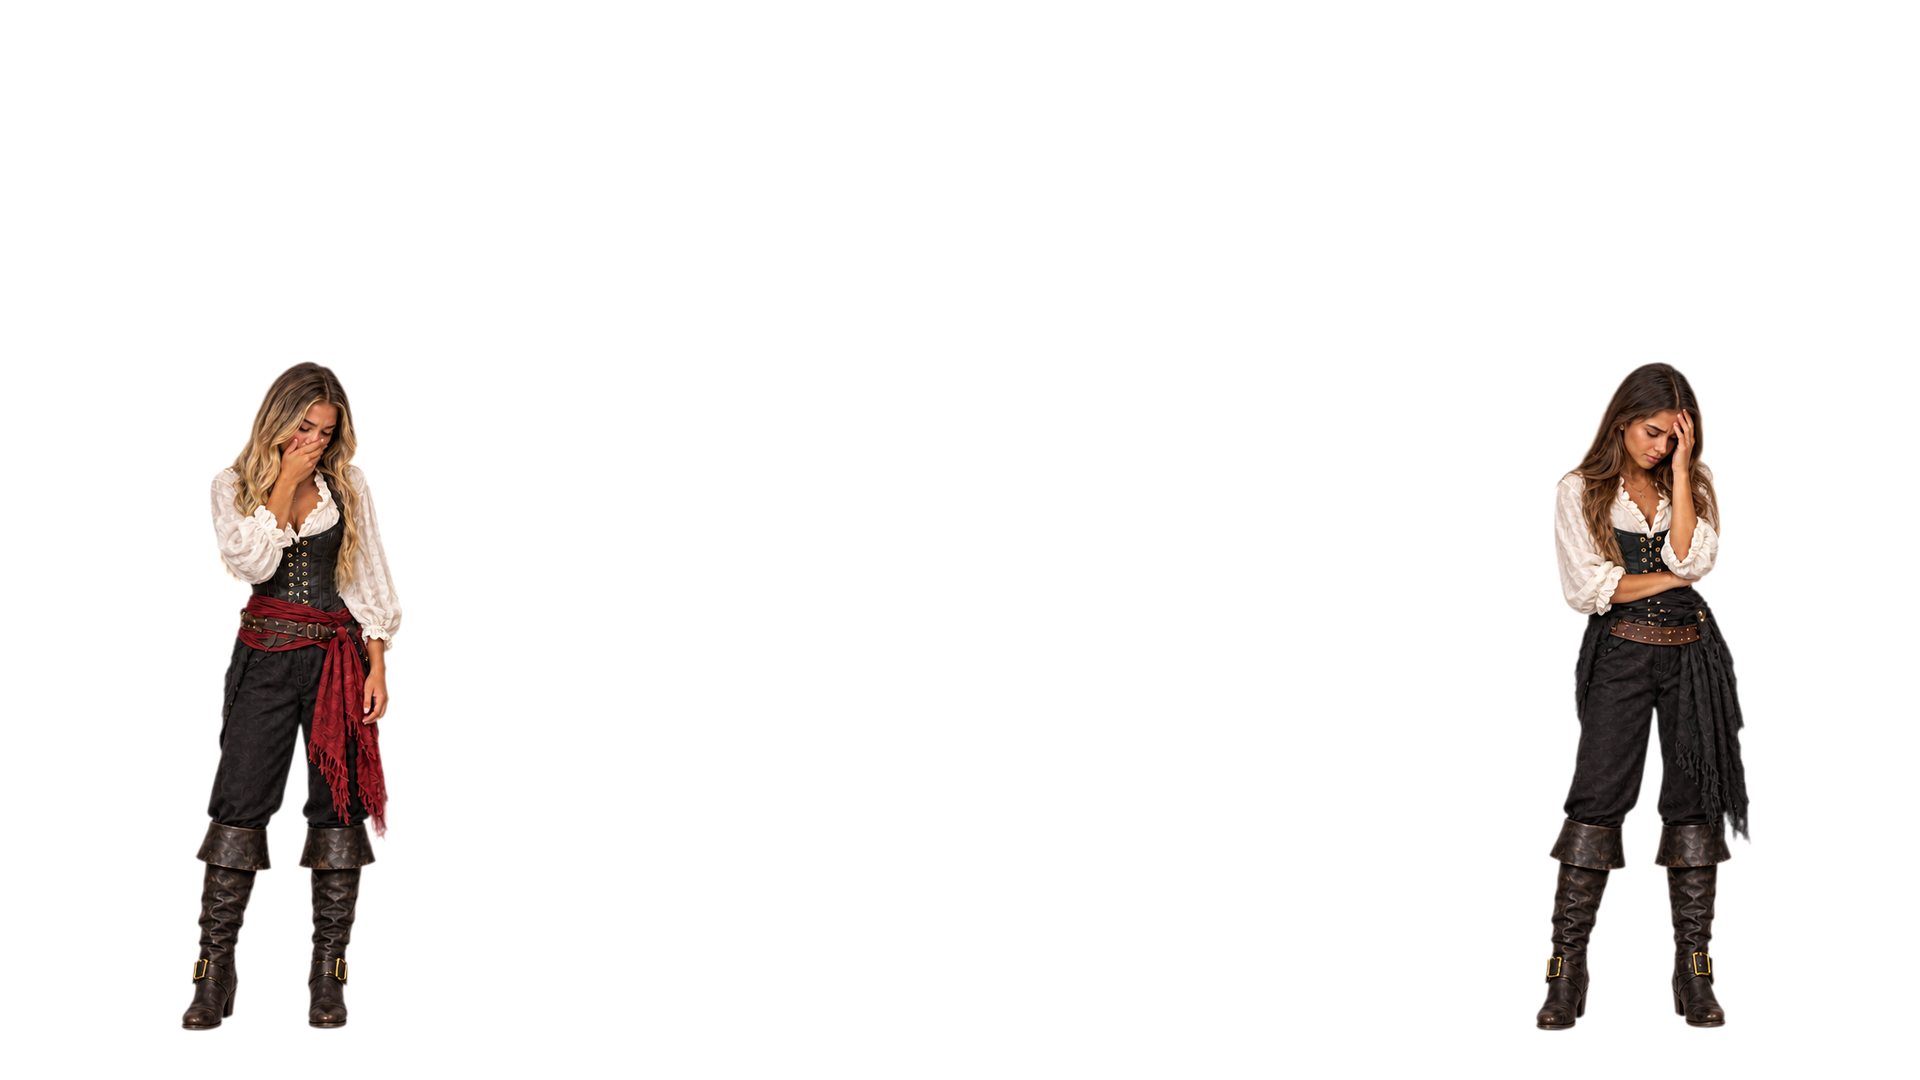
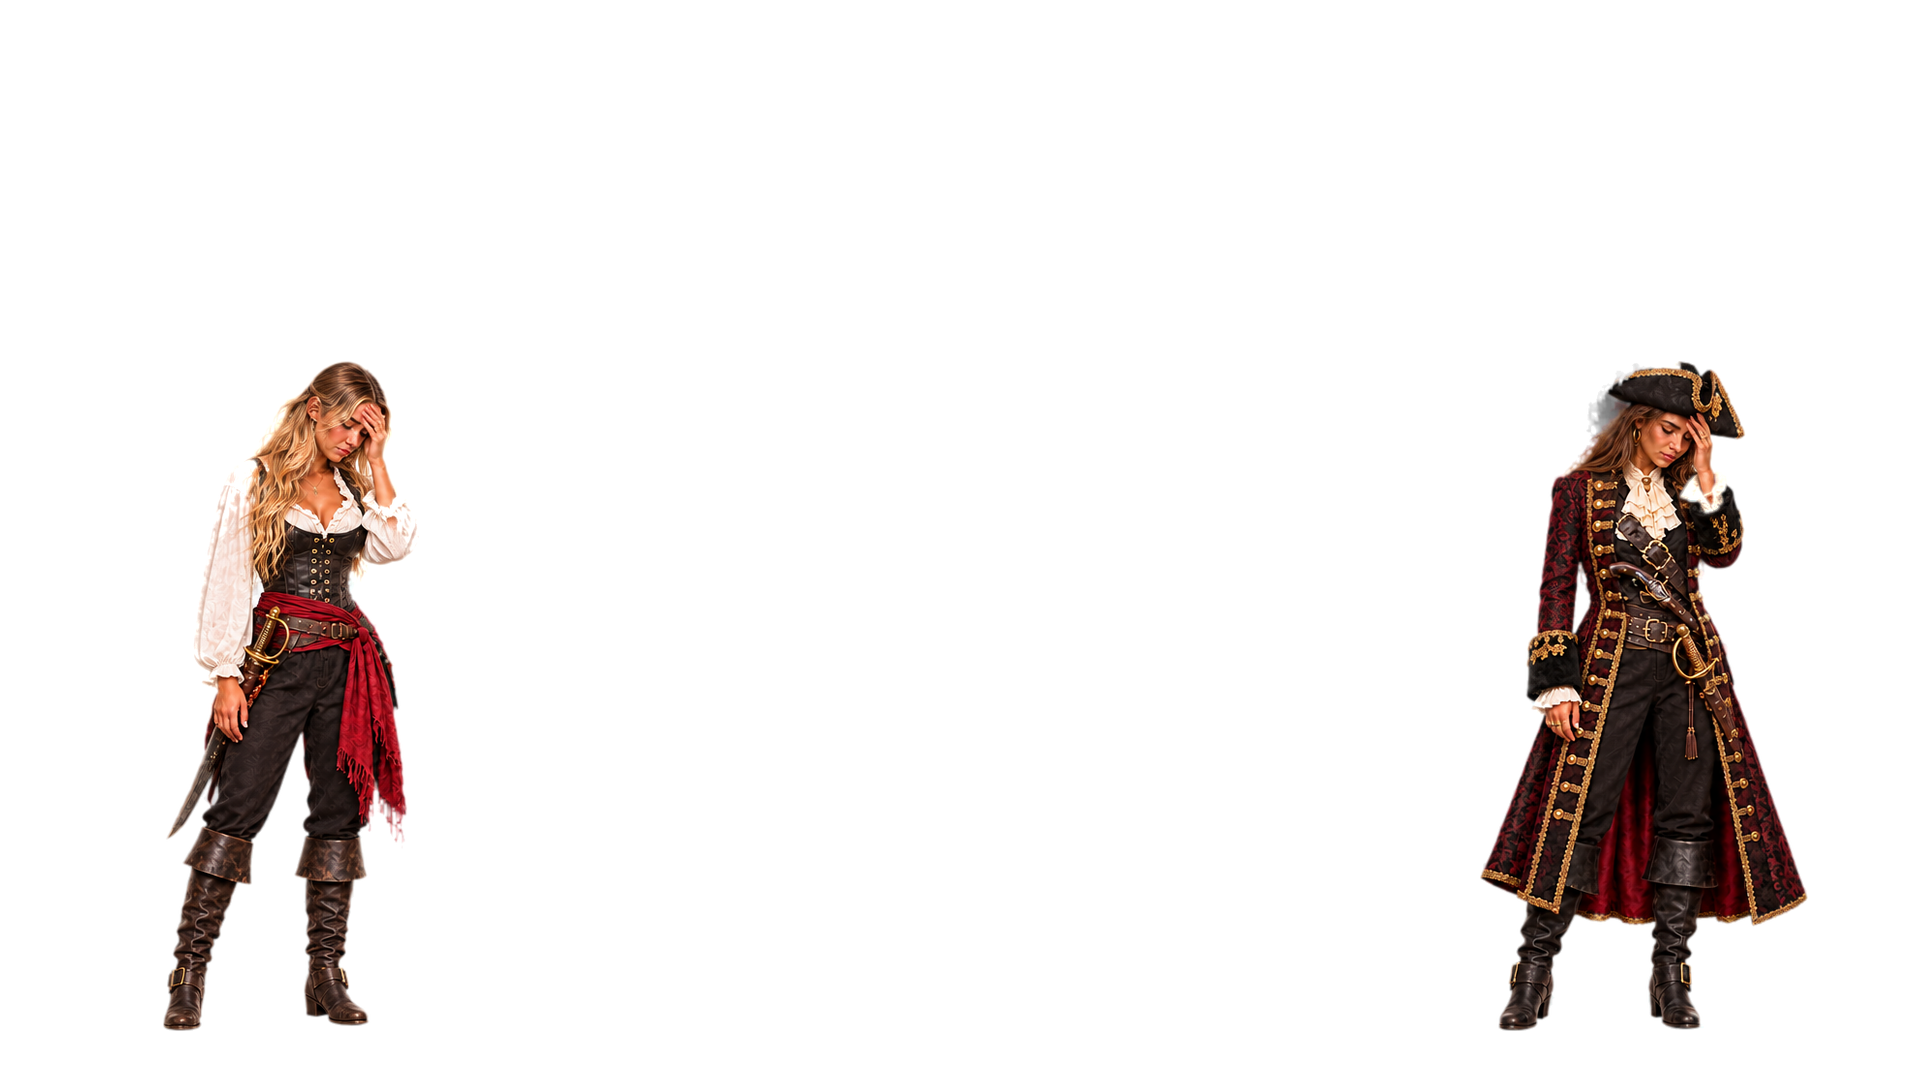
art: put the captain on the right and turn the crew toward the board
Two notes from the user, and they are the same note: the tricorn captain should
be the one on the right, and the pair should face each other rather than the
player. Two people standing either side of a chart should be watching the
chart, not the camera -- CLAUDE.md says the same thing about the floor, that
the whole room must not look at the player.

Four new states generated from the approved captain frame as an
image_references input, so both faces and both costumes carried across. Each
frame still holds **both women**, which is the property the cabinet depends on:
their reaction is shared by construction and they can never be caught feeling
different things about the same result. Each is a three-quarter turn inward,
with a wide gap between them that prepare_corsair.py splits down the middle --
middle_px=0 on all four, so neither woman reaches the chart.

They arrive opaque; the generator paints a checkerboard where it is asked for
transparency. cut_corsair_crew.py segments them with rembg isnet-general-use
and alpha matting, which keeps the ostrich plume and the fringe of the sash.
It reports the painted fraction as well as the transparent one, because a cut
that eats the women comes back looking like a clean transparent frame.

The v4 set (same states, both facing the camera) and the v3 set (no captain)
are kept as superseded takes with their job ids written down.

Changed region(s): [[0.75, 0.3361, 0.9375, 0.9778], [0.0625, 0.3361, 0.2188, 0.9778]]

diff --git a/tools/art/cut_corsair_crew.py b/tools/art/cut_corsair_crew.py
@@ -1,0 +1,71 @@
+"""Cut the two Corsair's Reach crew out of their opaque generation renders.
+
+    python tools/art/cut_corsair_crew.py
+
+The crew arrive as one frame per game state holding *both* women, which is the
+property the cabinet depends on: their reaction is shared by construction, so
+the pair can never be caught feeling different things about the same result.
+`prepare_corsair.py` splits each frame down the middle afterwards and stands
+each woman in her own lane.
+
+They arrive opaque. The generator paints a checkerboard where it was asked for
+transparency, so the alpha has to be made here before anything else can use
+them. Raw outputs under assets/source/layered_v2/corsair/ are never modified;
+the transparent versions are written beside them under `cutouts/`.
+
+Segmentation is `rembg`'s `isnet-general-use` with alpha matting, which keeps
+loose hair, the ostrich plume on the captain's tricorn and the fringe of the
+sash instead of chewing through them. Install it with
+`pip install rembg onnxruntime`; the model downloads once on first run.
+"""
+
+from __future__ import annotations
+
+from pathlib import Path
+
+import numpy as np
+from PIL import Image
+
+ROOT = Path(__file__).resolve().parents[2]
+SOURCE = ROOT / "assets/source/layered_v2/corsair"
+OUT = SOURCE / "cutouts"
+
+## One frame per state, each holding both women. Named for the state the
+## cabinet is in, which is how `prepare_corsair.CREW_STATES` reads them.
+FRAMES: list[str] = [
+    "crew_v5_ready_48889ddd",
+    "crew_v5_tense_cb3e8b4b",
+    "crew_v5_cheer_c9a7055d",
+    "crew_v5_wince_12f28921",
+]
+
+
+def main() -> int:
+    from rembg import new_session, remove
+
+    OUT.mkdir(parents=True, exist_ok=True)
+    session = new_session("isnet-general-use")
+    for name in FRAMES:
+        source = Image.open(SOURCE / (name + ".png")).convert("RGBA")
+        cut = remove(
+            source,
+            session=session,
+            alpha_matting=True,
+            alpha_matting_foreground_threshold=250,
+            alpha_matting_background_threshold=15,
+            alpha_matting_erode_size=8,
+        )
+        cut.save(OUT / (name + ".png"))
+        alpha = np.asarray(cut.getchannel("A"))
+        # Both women should survive the cut, so the frame keeps two separate
+        # islands of paint. A frame that comes back nearly empty means the
+        # matting ate them and the state has to be regenerated, not shipped.
+        print(
+            "%-28s transparent=%5.1f%%  painted=%6.1f%%"
+            % (name, 100.0 * (alpha < 16).mean(), 100.0 * (alpha > 200).mean())
+        )
+    return 0
+
+
+if __name__ == "__main__":
+    raise SystemExit(main())

diff --git a/tools/art/prepare_corsair.py b/tools/art/prepare_corsair.py
@@ -46,11 +46,18 @@ WRECK_CELL = 512
 ## v3 takes every rope, hilt and pole out of their hands. Anything a character
 ## holds that reaches past her own outline gets sliced off by the lane crop, and
 ## a rope cut dead at the frame edge is the first thing the eye finds.
+## The crew, one frame per state, each holding both women. They arrive opaque
+## and are segmented by `cut_corsair_crew.py` first, so these read from
+## `cutouts/` rather than from the raw renders beside them.
+##
+## v5 turns the pair inward. They stand in lanes either side of the chart, so
+## facing the player meant two people ignoring the thing the player is watching;
+## a three-quarter turn toward the centre puts their attention on the board.
 CREW_STATES: list[tuple[str, str]] = [
-    ("ready", "crew_v3_ready_ea6f81cb.png"),
-    ("tense", "crew_v3_tense_033b6430.png"),
-    ("cheer", "crew_v3_cheer_96cada4d.png"),
-    ("wince", "crew_v3_wince_f2d4370c.png"),
+    ("ready", "cutouts/crew_v5_ready_48889ddd.png"),
+    ("tense", "cutouts/crew_v5_tense_cb3e8b4b.png"),
+    ("cheer", "cutouts/crew_v5_cheer_c9a7055d.png"),
+    ("wince", "cutouts/crew_v5_wince_12f28921.png"),
 ]
 CREW_CANVAS = (1920, 1080)
 

diff --git a/docs/art/GENERATION-REPORT.md b/docs/art/GENERATION-REPORT.md
@@ -1101,3 +1101,38 @@ a vibrating sprite rather than flight, and without the rise and fall inside the
 beat the wings move while the bird slides. `growth_per_second` went 0.40 to
 0.12 in the same pass, so 2x takes 5.8 s instead of 1.7 -- that does not touch
 the return, which is drawn before she leaves, only how long the nerve is held.
+
+### The crew, v5: the captain, and facing the board
+
+The user asked for the tricorn captain to stand on the right, and then for the
+pair to face each other rather than the player. Both are the same note: two
+people standing either side of a chart should be watching the chart.
+
+The approved captain frame `crew_v2_captain_b6699072.png` was uploaded as an
+`image_references` input so the costumes and both faces carried across, and four
+new states were generated from it with `gpt_image_2_5` at 16:9.
+
+| State | Job |
+| --- | --- |
+| Ready | `48889ddd-16a9-4978-aa4c-e94d80873306` |
+| Tense | `cb3e8b4b-c243-47b6-9301-54a0cb68ba07` |
+| Cheer | `c9a7055d-ce7f-4316-b181-0e3cdbba1a30` |
+| Wince | `12f28921-9747-447a-a915-570b07a65c72` |
+
+Each still holds **both women in one frame**, so the shared reaction survives.
+Each is a three-quarter turn inward: the blonde on the left faces right, the
+captain on the right faces left, with a wide empty gap between them that
+`prepare_corsair.py` splits down the middle. `middle_px=0` on all four, so
+nothing of either woman reaches the chart.
+
+Superseded on the way there, kept for provenance: `crew_v4_*` (the same four
+states, but both women facing the camera — generated before the user asked for
+the inward turn) and the `crew_v3_*` set, which had no captain at all.
+
+The generator paints a checkerboard where it is asked for transparency, so
+these arrive opaque. `tools/art/cut_corsair_crew.py` segments them with rembg's
+`isnet-general-use` and alpha matting, which keeps the ostrich plume on the
+tricorn and the fringe of the sash. It prints the painted fraction of each cut
+as well as the transparent one, because a frame that comes back nearly empty
+means the matting ate the women and the state has to be regenerated rather than
+shipped.
